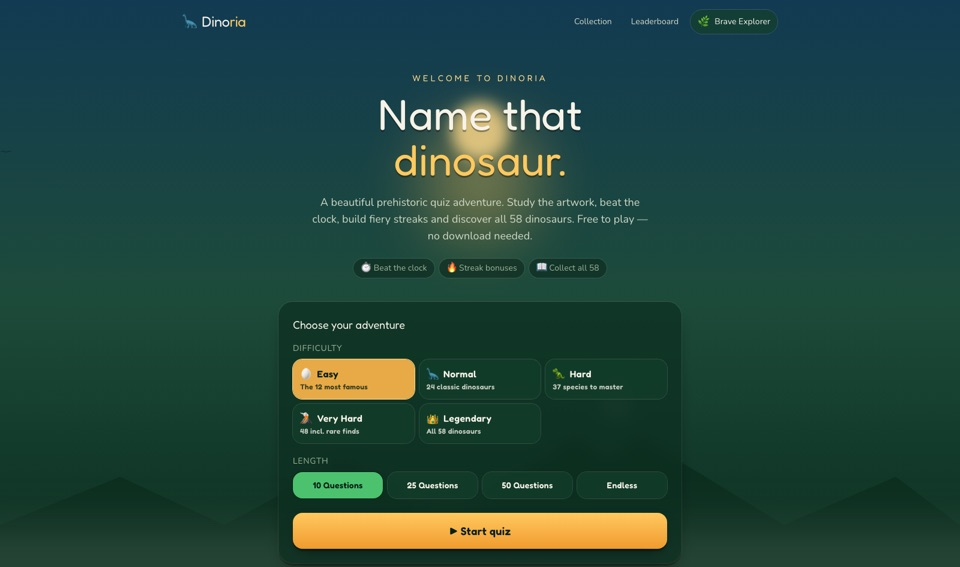
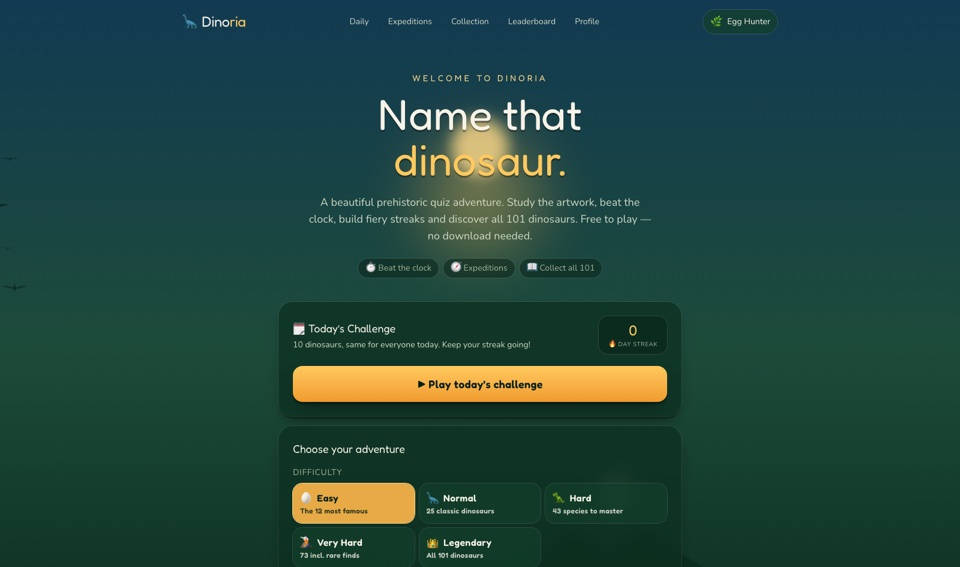
Update Dinoria portfolio card: fresh thumbnail (Daily + Expeditions) + future-proof description

diff --git a/src/data.ts b/src/data.ts
@@ -332,7 +332,7 @@ export const projects: Project[] = [
     url: 'https://dinoria.app/',
     image: '/projects/dinoria.jpg',
     description:
-      'A prehistoric quiz adventure — name 58 dinosaurs from original artwork, race the clock for streak bonuses, and collect them all across five difficulty tiers.',
+      'A prehistoric quiz adventure — identify and explore hundreds of dinosaurs, race the clock for streak bonuses, and collect them all across five difficulty tiers.',
   },
   {
     name: 'Quizgard',
